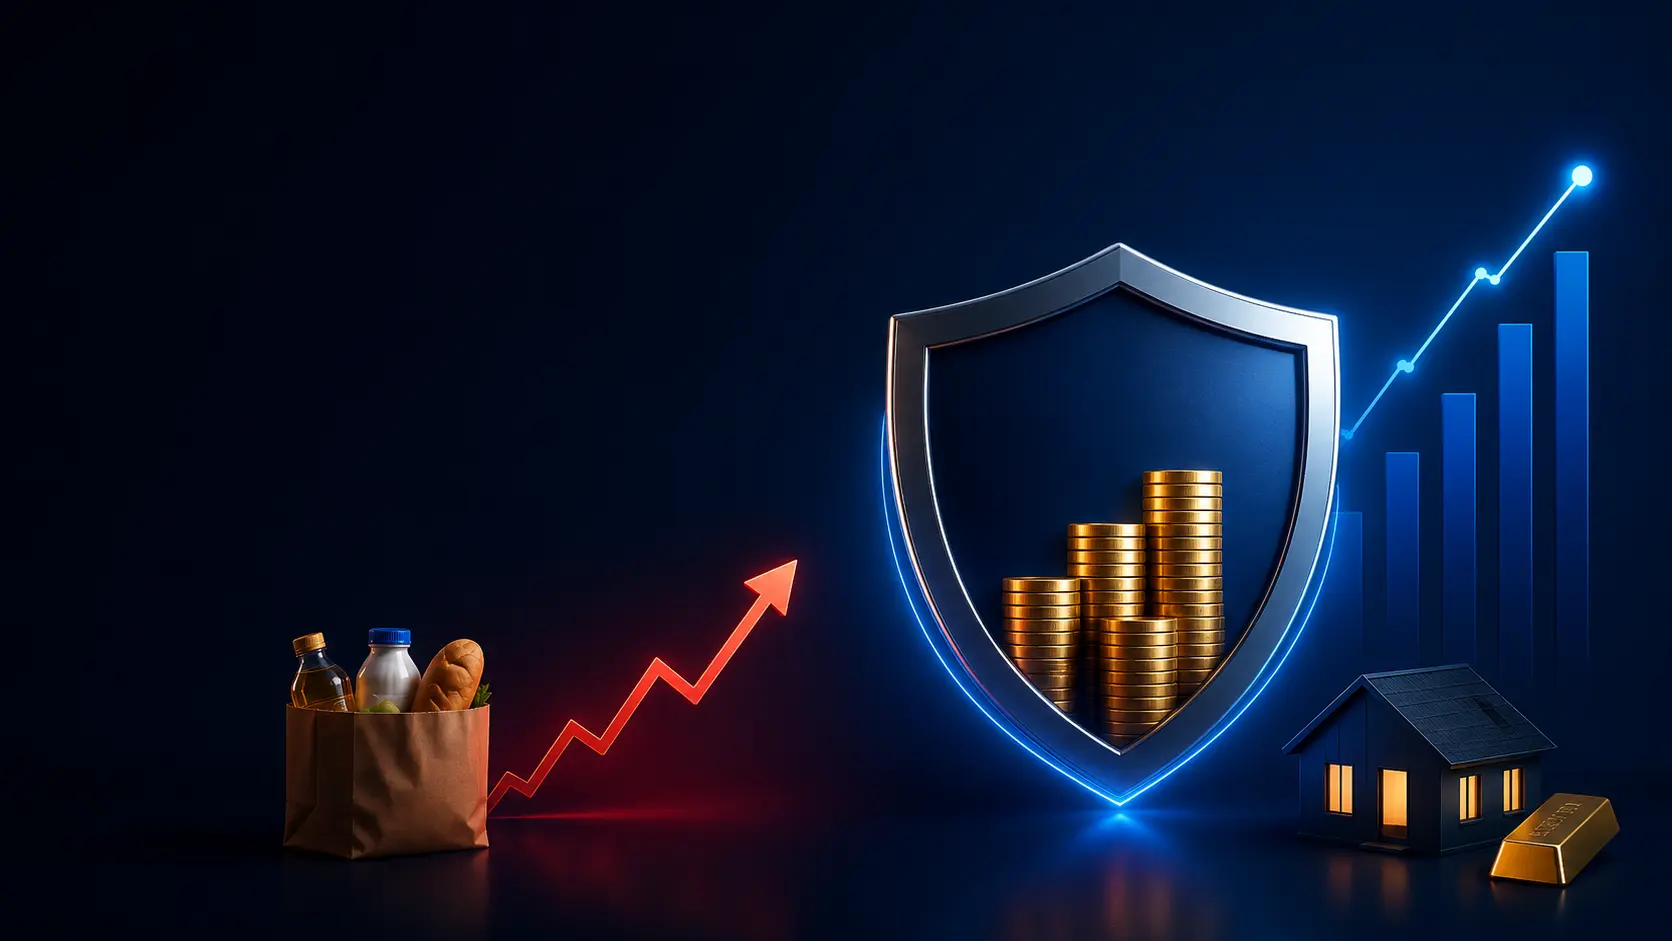
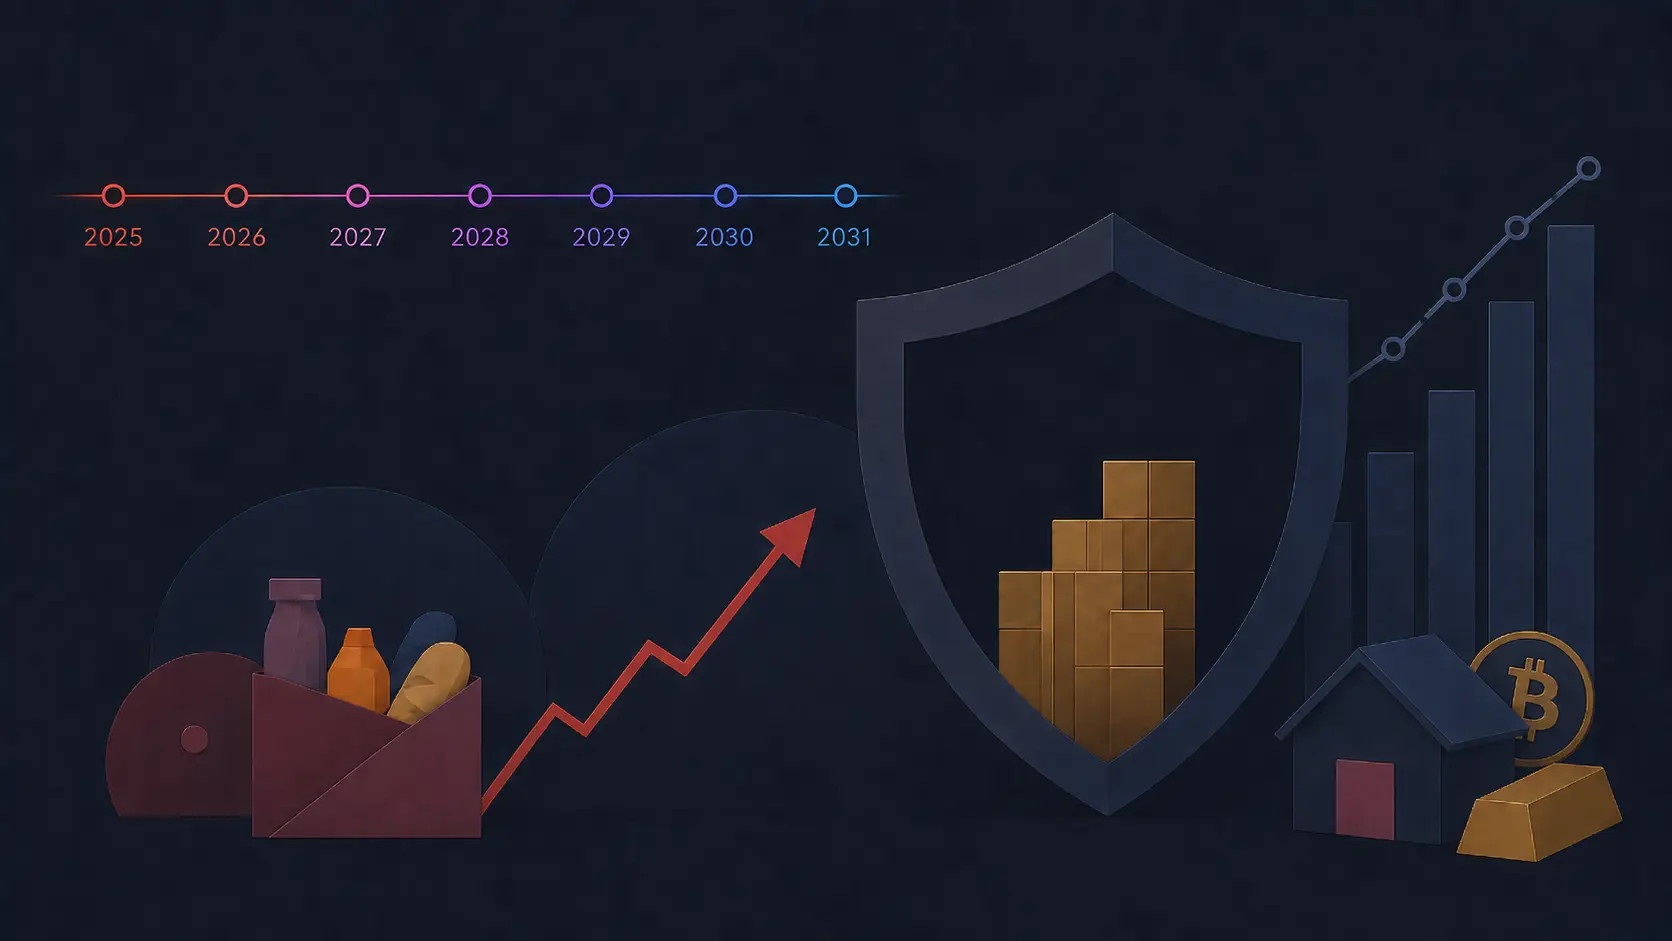
feat: add new blog post about inflation investment strategies and implement supporting blog page routing

diff --git a/src/content.config.ts b/src/content.config.ts
@@ -12,7 +12,9 @@ const blog = defineCollection({
     author: z.string().default('0xLeñador'),
     layout: z.string().optional(),
     keywords: z.string().optional(),
-    readTime: z.string().optional()
+    readTime: z.string().optional(),
+    coverImage: z.string().optional(),
+    coverAlt: z.string().optional()
   })
 });
 

diff --git a/src/content/blog/ganarle-a-la-inflacion.md b/src/content/blog/ganarle-a-la-inflacion.md
@@ -5,7 +5,11 @@ description: "Aprende estrategias de inversión contra la inflación para proteg
 category: "Estrategia de Inversión"
 date: 2026-05-27
 author: "0xLeñador"
+coverImage: "/img/blog/ganarle-a-la-inflacion.webp"
+coverAlt: "Imagen abstracta sobre estrategias de inversión contra la inflación, con un escudo protegiendo capital, una línea de precios en aumento y gráficos de crecimiento financiero."
 ---
+
+## Introdución
 
 La inflación no siempre se siente como un golpe fuerte. A veces llega en silencio: vas al supermercado, compras lo mismo de siempre y pagas más. Luego miras tus ahorros y, aunque el número en la cuenta sigue igual, entiendes que ese dinero compra menos.
 
